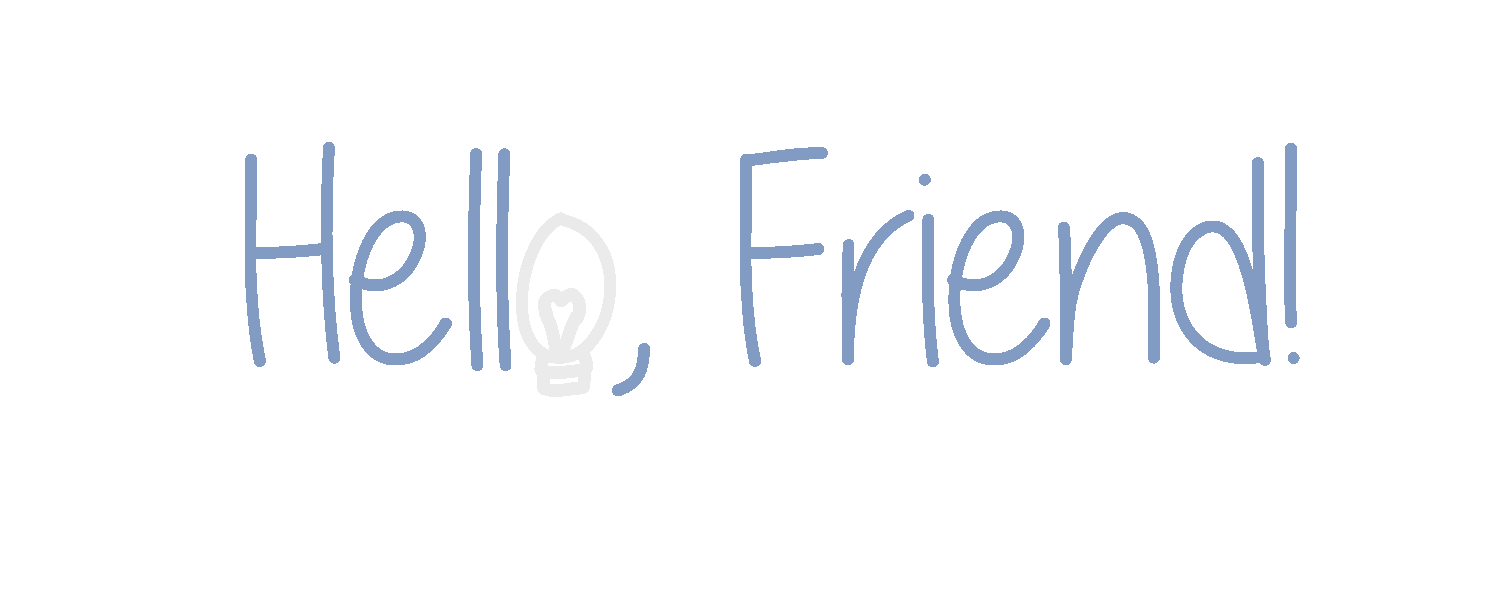
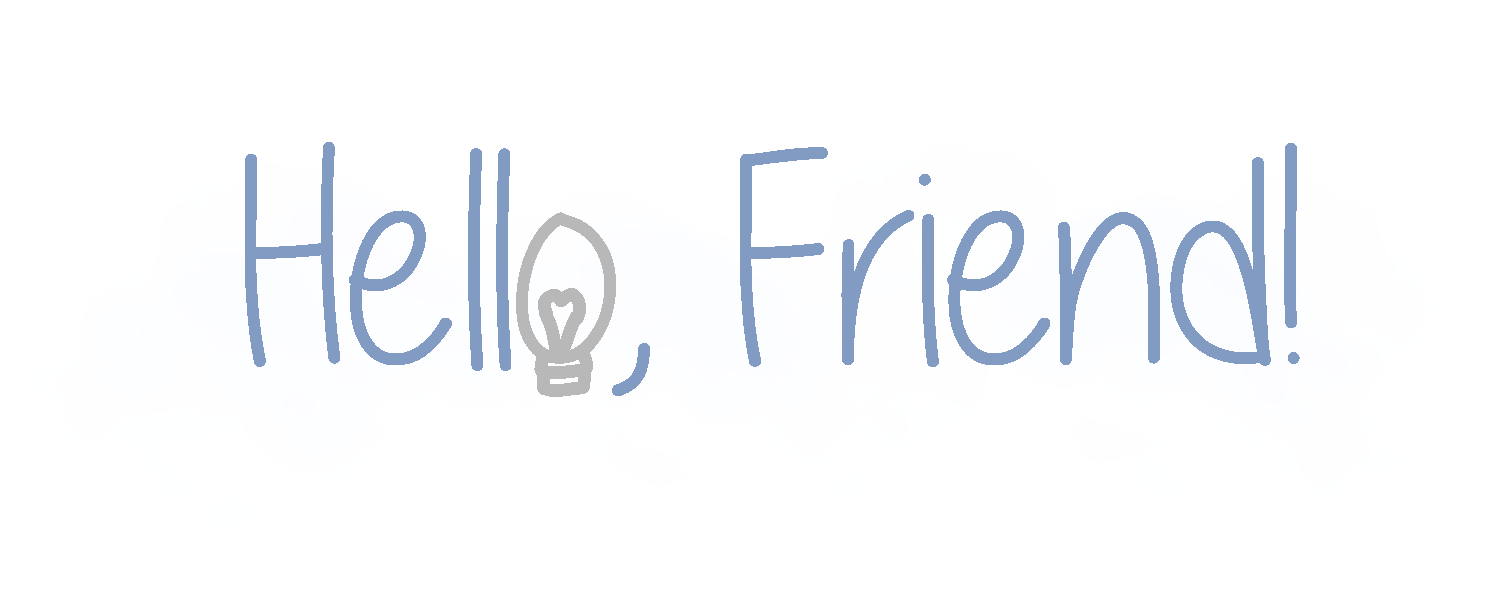
new background!

Changed region(s): [[0.3373, 0.36, 0.4293, 0.66]]

diff --git a/start.css b/start.css
@@ -6,5 +6,6 @@
 }
 
 body{
-    background-color: aliceblue;
+    background-image: url(friendbkgrnd.png);
+    background-size: cover;
 }
